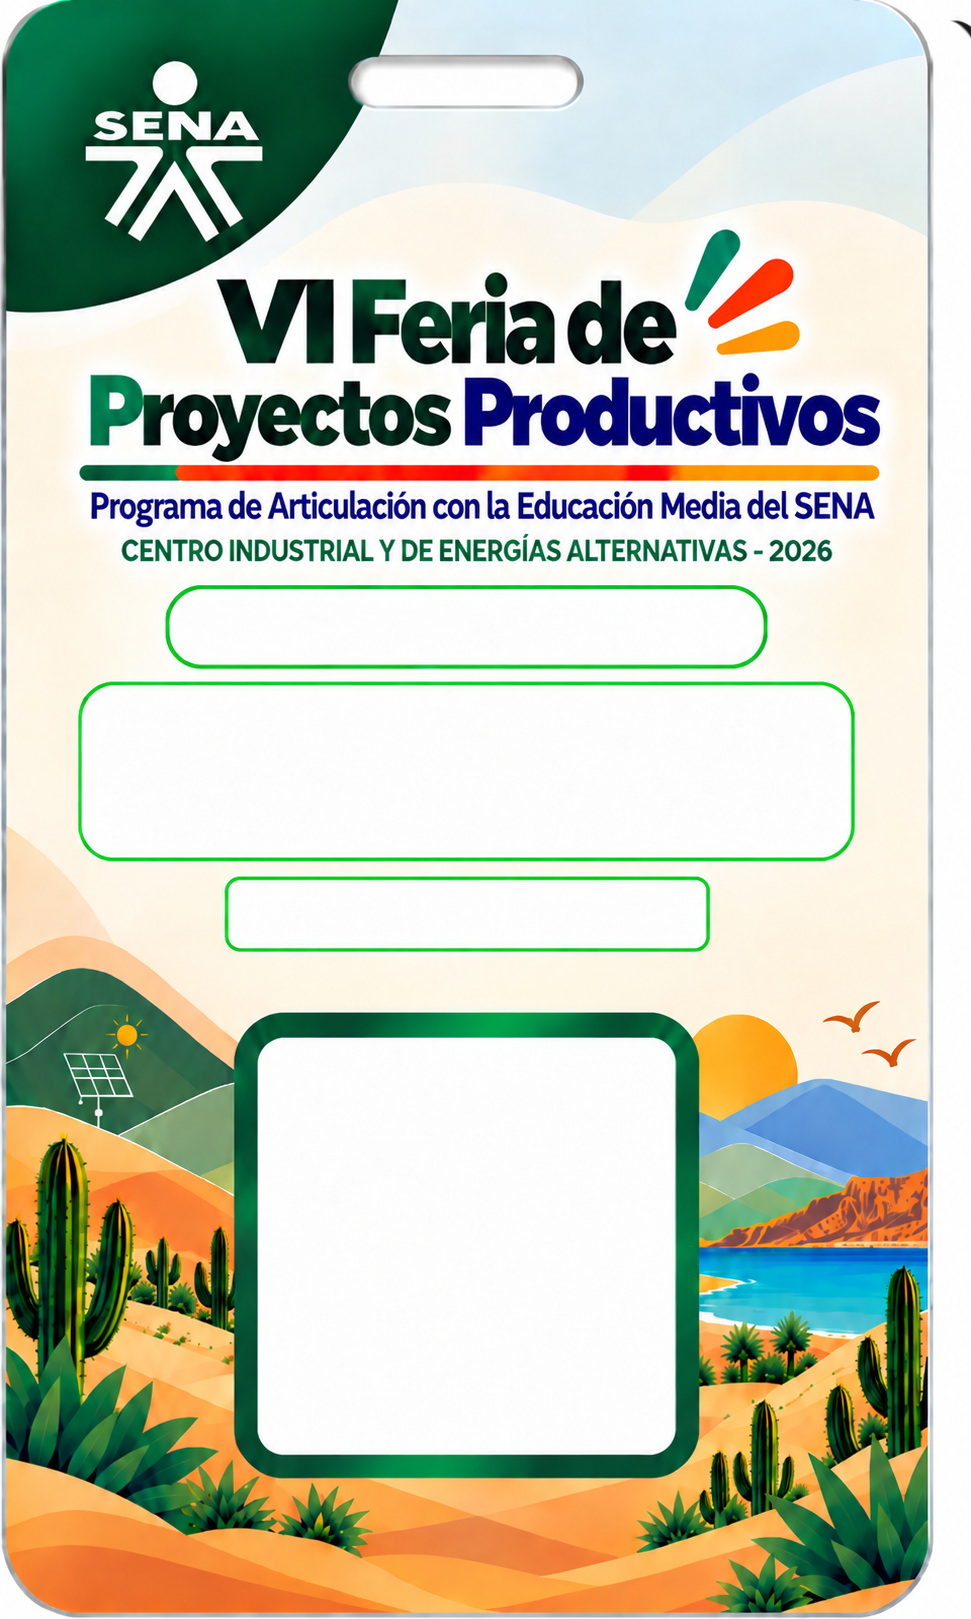
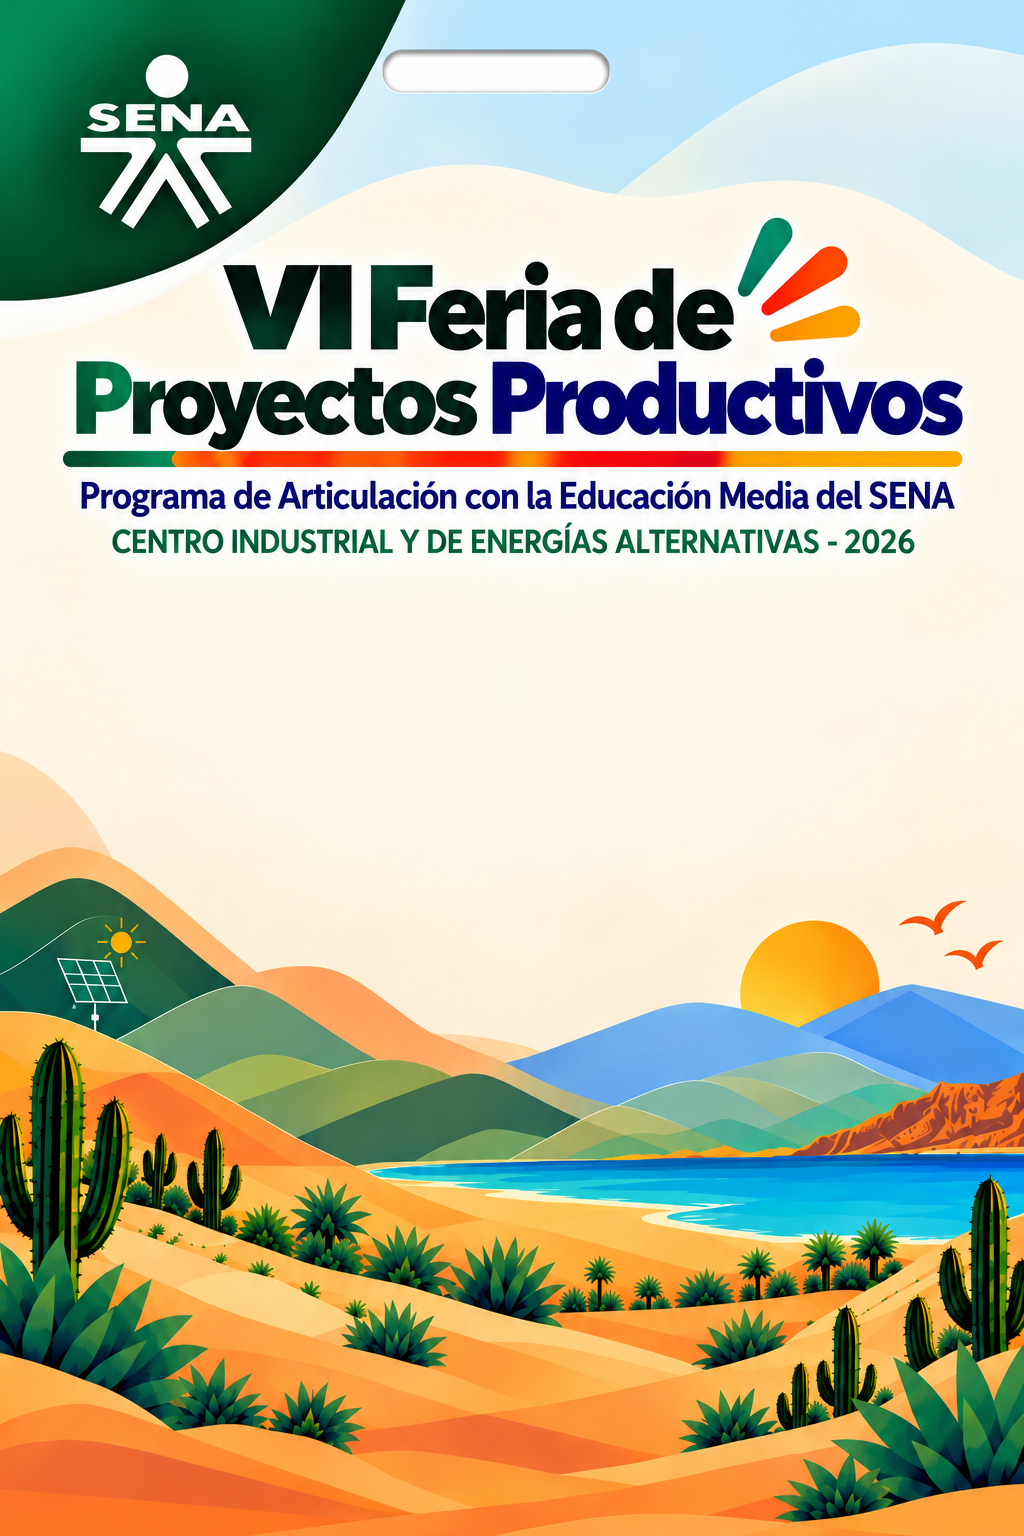
Credencial.png NUEVA (resolución actualizada 1024x1536 px sustituye la anterior 971x1619). + Re-calibra TODAS las coordenadas services.py al nuevo layout de la plantilla (todas las cajas y marcos de la PNG nueva están DESPLAZADOS hacia ARRIBA respecto a la versión anterior). Ajustes POS_*: Badge Y↑1

diff --git a/apps/escarapelas/services.py b/apps/escarapelas/services.py
@@ -39,54 +39,51 @@ BADGE_ROL_TEXTO = {
 }
 
 # =================================================================
-# COORDENADAS SOBRE DISEÑO REAL DE Credencial.png (971×1619 px → 107×135 mm).
-# 0,0 = esquina inf-izq (ReportLab).
-# AJUSTADAS para NO REDIBUJAR MARCOS (la plantilla YA LOS TIENE):
-#   - SOLO TAPAMOS el badge verde fijo con blanco opaco + pintamos nuevo badge.
-#   - El resto: SOLO TEXTO sobre las CAJAS QUE YA EXISTEN en la PNG.
+# COORDENADAS AJUSTADAS A LA NUEVA Credencial.png (1024 x 1536 px → 107x135 mm)
+# Foto de referencia: Jorge Arrieta (enviada x usuario)
+# 0,0 = esquina inf-izq (ReportLab)
+# ESTRATEGIA: NO REDIBUJAR NINGÚN MARCO; los marcos YA ESTÁN DIBUJADOS en la PNG.
+# Solo: (1) capa blanca opaca TAPA el badge verde original + badge nuevo color.
+#       (2) TEXTOS y QR SOBRE LAS CAJAS EXISTENTES sin contornos nuevos.
 # =================================================================
 
 POS_BADGE = {
-    'x':      14 * mm,     # aprox 13.88 medido
-    'y':      78 * mm,     # BADGE ORIGINAL tapado ~ 67.5 .. 82.5 H=15 → y inf = 67.5
-    'w':      79 * mm,
-    'h':      15 * mm,
-    'r':      7 * mm,
+    'x':   13.4 * mm,
+    'y':   88.0 * mm,   # Y inferior (esquina inf-izq badge)
+    'w':   80.2 * mm,
+    'h':   15.0 * mm,
+    'r':    7.0 * mm,
     'dy_txt': 4.2 * mm,
-    'size':   18,
+    'size':   19,
 }
 
 POS_TEXTO_NOMBRE = {
-    # Alineado sobre la CAJA BLANCA SUPERIOR de Credencial.png (nombre/IE/municipio)
     'w':      88 * mm,
-    'y1': 57.5 * mm,  # Nombre (línea 1)
-    'y2': 50.5 * mm,  # IE (línea 2)
-    'y3': 44.5 * mm,  # Municipio (línea 3)
-    'size_1': 19,
-    'size_2': 10.5,
-    'size_3': 10,
+    'y1': 76.5 * mm,   # 1) Nombre (arriba de la caja blanca)
+    'y2': 67.5 * mm,   # 2) I.E. (medio)
+    'y3': 59.0 * mm,   # 3) Municipio (abajo)
+    'size_1': 20,
+    'size_2': 11,
+    'size_3': 10.5,
 }
 
 POS_TEXTO_DOC = {
-    # Sobre la CAJA VERDE DOCUMENTO "CC: xxxxx" de la plantilla
-    'w':      55 * mm,
-    'y': 32 * mm,
-    'size':   13,
+    'w':    55 * mm,
+    'y':    40 * mm,
+    'size': 14,
 }
 
 POS_TEXTO_PROYECTO = {
-    # Dentro de la CAJA GRANDE INFERIOR (arriba del QR). Texto sin marco nuevo.
-    'w': 60 * mm,
-    'y': 26 * mm,
-    'size_label': 11,
-    'size_valor': 12,
+    'w': 62 * mm,
+    'y': 35.0 * mm,
+    'size_label': 11.5,
+    'size_valor': 12.5,
 }
 
 POS_QR = {
-    # Dentro de la CAJA GRANDE INFERIOR (no sobre el mar).
-    'size': 22 * mm,
-    'centro_x': 53.5 * mm,  # ~ centro 107/2
-    'y_inf':    4.5 * mm,   # desde esquina inf
+    'size':     24 * mm,
+    'centro_x': 53.5 * mm,
+    'y_inf':    10.5 * mm,
 }
 
 
